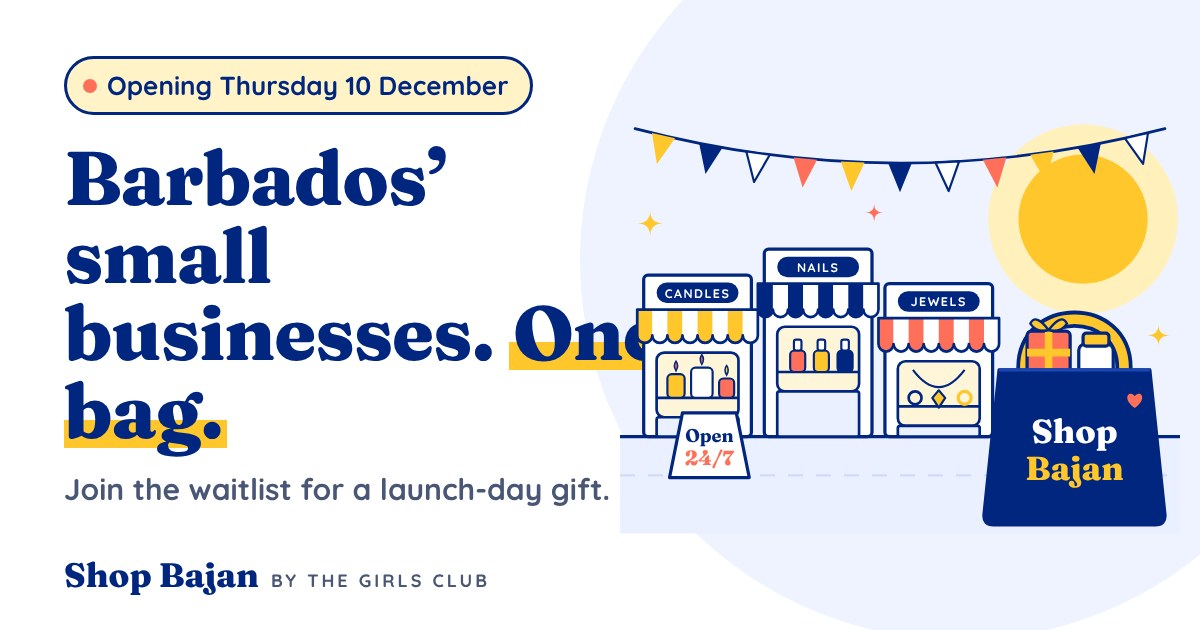
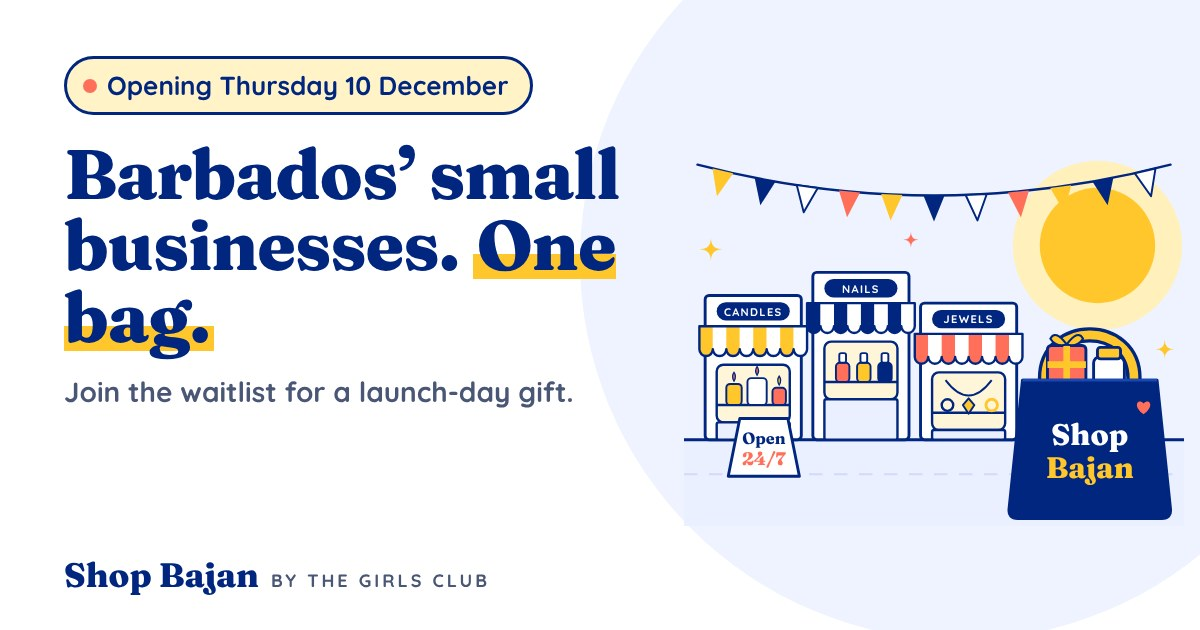
Waitlist page: Sell with us on phones, 10 founding brands wording, fixed share image
- Phone-first "Sell with us" bar under the header (hidden from 520px up, where the header link shows)
- Header tightened on 320-380px phones so the logo no longer wraps
- Founding brands line now: 10 small businesses, lower rate locked in, 3 months of Spotlight free, Founding Brand label, launch-week feature
- Share image redrawn so the artwork no longer clips the headline

Claude-Session: https://claude.ai/code/session_012rAca2tgj77RwHUfMdGjRa

Changed region(s): [[0.0308, 0.181, 0.9867, 0.8444], [0.0617, 0.754, 0.5242, 0.8143], [0.5242, 0.3317, 0.555, 0.3619]]

diff --git a/index.html b/index.html
@@ -655,6 +655,12 @@ html.soon body>*:not(#soonPage){display:none!important}
 .sb-link{font-weight:700;font-size:.92rem;text-decoration:none;color:var(--blue);padding:10px 4px}
 .sb-link:hover{text-decoration:underline}
 @media(max-width:519px){.sb-link{display:none}}
+.sb-sell-strip{display:flex;align-items:center;justify-content:center;gap:6px;min-height:46px;padding:8px 16px;background:var(--sky);color:var(--blue);font-size:.95rem;text-decoration:none;border-top:1px solid var(--line);border-bottom:1px solid var(--line)}
+.sb-sell-strip b{text-decoration:underline;text-underline-offset:3px;text-decoration-thickness:2px}
+.sb-sell-strip:active{background:var(--sun)}
+@media(min-width:520px){.sb-sell-strip{display:none}}
+@media(max-width:380px){.sb-head{padding:12px 14px;gap:8px}.sb-brand{gap:8px}.sb-brand svg{width:30px;height:30px}.sb-word b{font-size:1.2rem;white-space:nowrap}.sb-word small{font-size:.56rem;letter-spacing:.08em;white-space:nowrap}.sb-btn-sm{padding-left:14px;padding-right:14px;font-size:.88rem;white-space:nowrap}}
+
 
 /* hero */
 .sb-hero{padding:14px 0 6px}
@@ -669,7 +675,7 @@ html.soon body>*:not(#soonPage){display:none!important}
 .sb-cta .sb-btn{flex:1 1 220px}
 .sb-perkline{display:flex;gap:9px;align-items:flex-start;font-weight:700;font-size:.95rem;color:var(--blue);line-height:1.4}
 .sb-perkline i{font-style:normal;flex:none}
-.sb-art{width:100%;max-width:560px;margin:4px auto 0}
+.sb-art{width:100%;max-width:600px;margin:4px auto 0}
 .sb-art svg{display:block;width:100%;height:auto;overflow:visible}
 @media(min-width:900px){.sb-hero{padding:34px 0 18px}.sb-hero-grid{grid-template-columns:1.02fr 1fr;gap:40px}.sb-hero h1{font-size:clamp(3.2rem,4.4vw,4.2rem)}.sb-cta .sb-btn{flex:0 0 auto}}
 
@@ -691,7 +697,9 @@ html.soon body>*:not(#soonPage){display:none!important}
 /* scenes */
 .sb-scenes{display:grid;gap:16px;margin-top:28px}
 .sb-scene{background:#fff;border:2px solid var(--blue);border-radius:22px;padding:20px 20px 22px;box-shadow:5px 5px 0 var(--gold)}
-.sb-time{display:inline-block;background:var(--blue);color:#fff;font-weight:800;font-size:.78rem;letter-spacing:.07em;padding:5px 12px;border-radius:999px;margin-bottom:12px;text-transform:uppercase}
+.sb-time{display:inline-block;background:var(--blue);color:#fff;font-weight:800;font-size:.78rem;letter-spacing:.07em;padding:5px 12px;border-radius:999px;text-transform:uppercase}
+.sb-scene-top{display:flex;align-items:center;justify-content:space-between;gap:12px;margin-bottom:12px}
+.sb-av{width:58px;height:58px;flex:none;display:block}
 #soonPage .sb-scene h3{font-size:1.42rem;margin-bottom:8px}
 .sb-scene p{color:var(--muted)}
 @media(min-width:640px){.sb-scenes{grid-template-columns:repeat(2,1fr);gap:22px}}
@@ -801,6 +809,7 @@ textarea.sb-in{min-height:88px;resize:vertical}
       <a class="sb-btn sb-btn-sm" href="#sbJoin" data-sb-join>Join the waitlist</a>
     </div>
   </div>
+  <a class="sb-sell-strip" href="brands.html">Own a small business? <b>Sell with us</b> <span aria-hidden="true">&rarr;</span></a>
 
   <main id="sbTop">
     <section class="sb-hero" aria-labelledby="sbH1">
@@ -829,7 +838,7 @@ textarea.sb-in{min-height:88px;resize:vertical}
           <p class="sb-eyebrow">For small businesses</p>
           <h2 class="sb-h2" id="sbBrandsH">Own a small business? Launch with us.</h2>
           <p class="sb-sub">Shop Bajan is where Barbados finds you, 24/7. Handmade or imported, physical or digital, every category is welcome. No website to build and no checkout to set up. DM us and we&rsquo;ll design your storefront for you.</p>
-          <div class="sb-spots">We&rsquo;re looking for 4 more founding brands to complete our launch. Founding brands get special benefits that stay with them.</div>
+          <div class="sb-spots">We&rsquo;re offering 10 small businesses the chance to be founding brands. You get a lower rate locked in for as long as you stay, 3 months of our Spotlight promotion free, a Founding Brand label and a launch-week feature.</div>
         </div>
         <div>
           <ul class="sb-list">
@@ -853,12 +862,12 @@ textarea.sb-in{min-height:88px;resize:vertical}
         <h2 class="sb-h2" id="sbPicH">Shopping local, finally as easy as it should be.</h2>
         <p class="sb-sub">Here&rsquo;s what your week looks like once Shop Bajan is open.</p>
         <div class="sb-scenes">
-          <article class="sb-scene"><span class="sb-time">11:48 pm</span><h3>The birthday you forgot is tomorrow.</h3><p>Shop Bajan never closes. Find something local and lovely, check out in minutes, and wake up like you planned it all week.</p></article>
-          <article class="sb-scene"><span class="sb-time">12:30 pm</span><h3>Lunch break. One thumb. Done.</h3><p>Order from your desk between bites. Have it delivered, or collect it on your way home.</p></article>
-          <article class="sb-scene"><span class="sb-time">Sunday, on the couch</span><h3>Five businesses. One bag.</h3><p>Nails from one brand, a candle from another, earrings from a third. One checkout instead of five DMs, five transfers and five waits.</p></article>
-          <article class="sb-scene"><span class="sb-time">Any day</span><h3>&ldquo;Is this still available?&rdquo; Never typed again.</h3><p>We check stock with every brand, so what you see on the shelf is what you can order.</p></article>
-          <article class="sb-scene"><span class="sb-time">Saturday errands</span><h3>Pick it up on your route.</h3><p>Choose collection or a meet-up that fits your day, instead of waiting around for a reply.</p></article>
-          <article class="sb-scene"><span class="sb-time">This Christmas</span><h3>Everyone on your list, from Bajan hands.</h3><p>Gifts with a story, in one bag, from small businesses right here at home. Every order backs a Bajan small business.</p></article>
+          <article class="sb-scene"><div class="sb-scene-top"><span class="sb-time">11:48 pm</span></div><h3>The birthday you forgot is tomorrow.</h3><p>Shop Bajan never closes. Find something local and lovely, check out in minutes, and wake up like you planned it all week.</p></article>
+          <article class="sb-scene"><div class="sb-scene-top"><span class="sb-time">12:30 pm</span></div><h3>Lunch break. One thumb. Done.</h3><p>Order from your desk between bites. Have it delivered, or collect it on your way home.</p></article>
+          <article class="sb-scene"><div class="sb-scene-top"><span class="sb-time">Sunday, on the couch</span></div><h3>Five businesses. One bag.</h3><p>Nails from one brand, a candle from another, earrings from a third. One checkout instead of five DMs, five transfers and five waits.</p></article>
+          <article class="sb-scene"><div class="sb-scene-top"><span class="sb-time">Any day</span></div><h3>&ldquo;Is this still available?&rdquo; Never typed again.</h3><p>We check stock with every brand, so what you see on the shelf is what you can order.</p></article>
+          <article class="sb-scene"><div class="sb-scene-top"><span class="sb-time">Saturday errands</span></div><h3>Pick it up on your route.</h3><p>Choose collection or a meet-up that fits your day, instead of waiting around for a reply.</p></article>
+          <article class="sb-scene"><div class="sb-scene-top"><span class="sb-time">This Christmas</span></div><h3>Everyone on your list, from Bajan hands.</h3><p>Gifts with a story, in one bag, from small businesses right here at home. Every order backs a Bajan small business.</p></article>
         </div>
         <div class="sb-center"><a class="sb-btn" href="#sbJoin" data-sb-join>I want in</a></div>
       </div>
